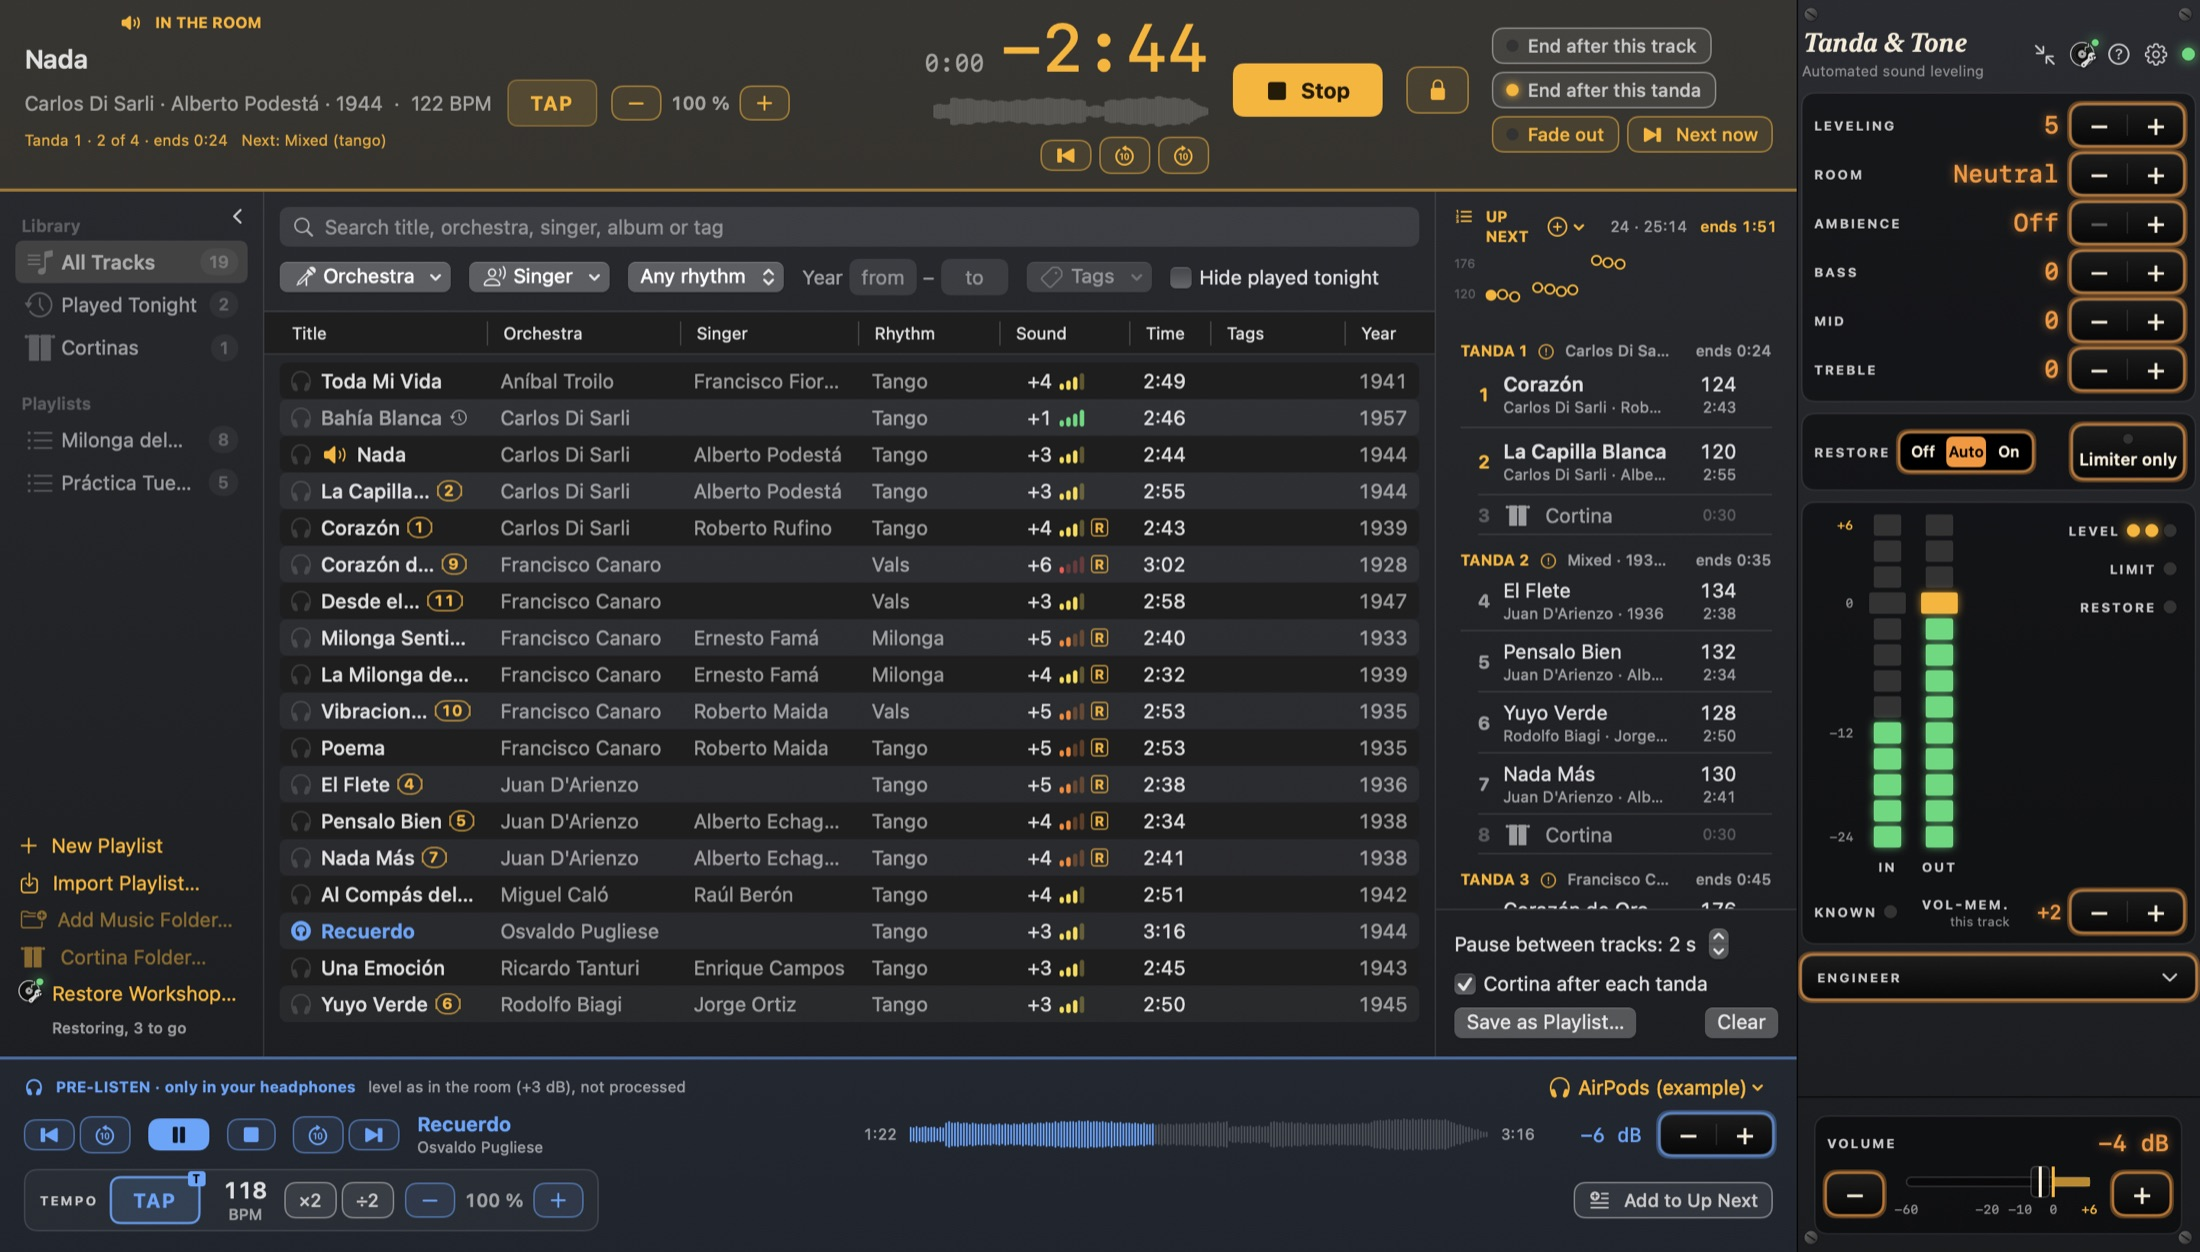
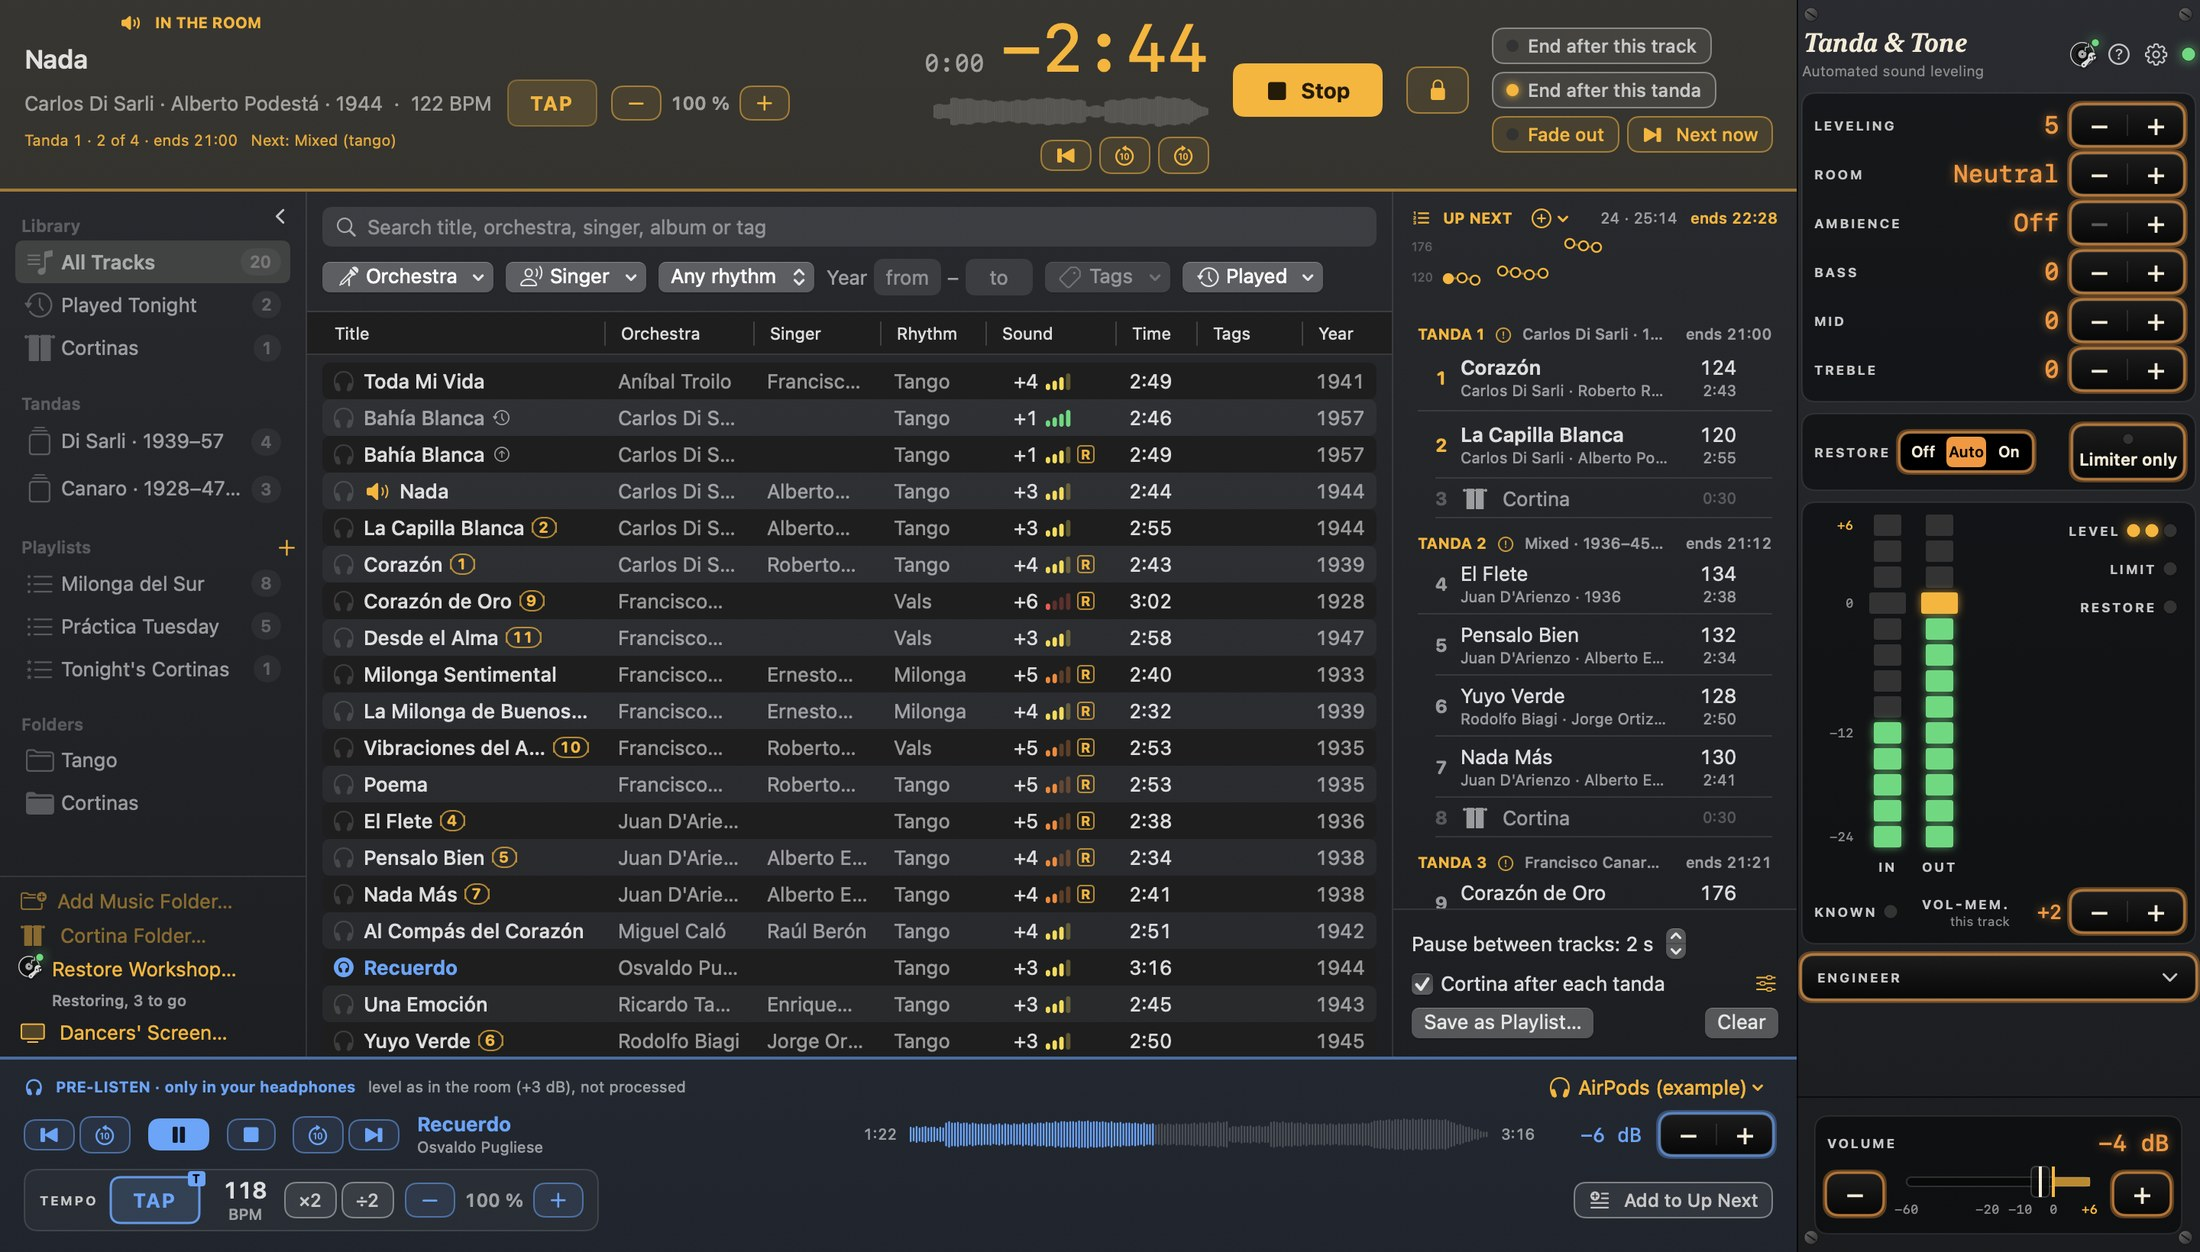
Tanda & Tone: the public pages (2026-11-11)

diff --git a/support.html b/support.html
@@ -466,6 +466,13 @@
     <div class="card"><h3>Ending after a tanda</h3><p><strong>End after this tanda</strong> lets the tanda play to its
       last track, then the room goes quiet before the cortina, for an announcement or a break. <strong>End after this
       track</strong> does the same after the track in the room.</p></div>
+    <div class="card"><h3>Saved tandas</h3><p>A tanda you want again: select its tracks in the library, right-click
+      and choose <strong>Save as Tanda</strong>, or right-click a track of it in Up Next and choose <strong>Save This
+      Tanda</strong>. It is kept under Tandas in the sidebar. Right-click it there and choose <strong>Add as
+      Tanda</strong> to put it in Up Next, with its cortina.</p></div>
+    <div class="card"><h3>Tonight's cortinas</h3><p>The playlist <strong>Tonight's Cortinas</strong> chooses the
+      cortinas for one evening: drag tracks into it and only those play as cortinas, in its order. Leave it empty
+      and every cortina in your folder takes its turn.</p></div>
   </div>
 </section>
 
@@ -488,6 +495,17 @@
       will give it.</p></div>
     <div class="card"><h3>The lock</h3><p>The padlock beside Stop (⌘L) guards against a slip of the hand. Locked, Stop
       and Next now need a short hold. Fade out, the headphones and the library stay one click.</p></div>
+    <div class="card"><h3>A screen for the dancers</h3><p><strong>Dancers' Screen…</strong> under the library (⇧⌘D)
+      opens a black window for a projector or a TV: orchestra, title, singer and year, the rhythm and where the tanda
+      is. Drag it to that display and press the green button for full screen. Point at it and click the gear in its
+      corner for your name, the milonga's, what it says about the next tanda, and its look.</p></div>
+    <div class="card"><h3>The same recording twice</h3><p>A small <strong>↑</strong> after a title means another file
+      of the same recording in your library sounds better. Point at it to see which album, or right-click and choose
+      <strong>Show Other Transfers</strong> to hear them side by side. Nothing is hidden: the choice is yours.</p></div>
+    <div class="card"><h3>What you have not played lately</h3><p>The <strong>Played</strong> menu above the library
+      hides what was played tonight, or shows only what you have not played for some weeks. Right-click the table's
+      header and choose <strong>Last Played</strong> for a column that says when. Pre-listening does not count as
+      played.</p></div>
   </div>
 
   <h3 style="margin:44px 0 14px">A checklist for the evening</h3>
@@ -582,6 +600,17 @@
         its own mixer channel.</p></div>
     </details>
     <details>
+      <summary>I corrected the tags in my files. Are my playlists still right?</summary>
+      <div><p>Yes. Fix the tags in any tagger, and let it rename the files if you like. The track stays the same
+        track, with its playlists, saved tandas, tags and when it was last played, and the new tags are read the next
+        time Tanda &amp; Tone opens. A file converted to another format counts as a new track.</p></div>
+    </details>
+    <details>
+      <summary>The library's left column is gone</summary>
+      <div><p>In a narrow window it folds away by itself so that every column of the library shows. Make the window
+        wider, or click the small arrow at the library's left edge (⌃⌘S).</p></div>
+    </details>
+    <details>
       <summary>The room stopped by itself</summary>
       <div><p>It reached an empty slot of a template set, or End after this tanda was on. Fill the slot or press Play
         to go on.</p></div>
@@ -639,6 +668,8 @@
       <tr><td>[ / ]</td><td>Pre-listen the previous / next track</td></tr>
       <tr><td>⌘↑ / ⌘↓</td><td>Volume up / down</td></tr>
       <tr><td>⌘F</td><td>Search the library</td></tr>
+      <tr><td>⇧⌘D</td><td>The dancers' screen</td></tr>
+      <tr><td>⌃⌘S</td><td>Fold the library's left column away, or bring it back</td></tr>
       <tr><td>⇧⌘R</td><td>Restore Workshop</td></tr>
       <tr><td>⌘,</td><td>Setup</td></tr>
       <tr><td>⌘?</td><td>The manual</td></tr>

diff --git a/index.html b/index.html
@@ -477,7 +477,10 @@
           <h3>It has heard every track before the floor does.</h3>
           <p>Point it at your music folders. It reads orchestra, singer and rhythm from your tags, FLAC included,
             and listens through every track once, so each one's level is known before you play it.</p>
-          <p>Search and filter by orchestra, singer, rhythm and year, and a tanda is a few clicks.</p>
+          <p>Search and filter by orchestra, singer, rhythm and year, or show only what you have not played for
+            a month, and a tanda is a few clicks.</p>
+          <p>Where you own the same recording from several albums, it marks the transfer that sounds best. Which
+            one plays is still your choice.</p>
         </div>
         <figure class="pic scroll">
           <div class="frame"><img src="images/tango-library.jpg" width="980" height="353" loading="lazy" alt="The library with columns for title, orchestra, singer, rhythm, sound, time and year, and filters for orchestra, singer, rhythm and year above it"></div>
@@ -494,6 +497,7 @@
           <h3>T T V T T M, laid out with its cortinas.</h3>
           <p>Select four tracks and add them as a tanda, and a cortina follows it. Or lay out the whole night from
             a template and drop the tracks into its slots.</p>
+          <p>A tanda you want again is saved with one click and waits in the sidebar for any evening.</p>
           <p>Up Next shows every tanda with its orchestra and the time it ends. A small mark hints when a tanda
             mixes orchestras, singers or rhythms. It is a hint, never a block.</p>
           <div class="template" role="img" aria-label="A set template: tango, tango, vals, tango, tango, milonga, with a cortina after each tanda">
@@ -516,6 +520,22 @@
             After that, a move on the fader is a choice, not a repair.</p>
           <p>Then lock the player. Locked, Stop and Next need a short hold, so a stray click cuts nothing short.</p>
         </div>
+      </div>
+    </li>
+
+    <li class="stop">
+      <div class="when"><span class="time">20:30</span><span class="phase">The first tanda</span></div>
+      <div class="what">
+        <div class="text">
+          <h3>The floor can read what is playing.</h3>
+          <p>Put a second window on the projector or a TV. It shows the orchestra, the title, the singer and the
+            year in type that reads across the room, and where the tanda is.</p>
+          <p>Your name and the milonga's stand at the top. What it says about the next tanda is yours to decide:
+            its rhythm, its orchestra too, or nothing at all.</p>
+        </div>
+        <figure class="pic">
+          <img src="images/tango-dancers.jpg" width="480" height="270" loading="lazy" alt="The screen for the dancers, white type on black: Carlos Di Sarli, Corazón, Roberto Rufino, 1939, tango, the second of four, and next a vals by Francisco Canaro; the milonga's name and the DJ's at the top">
+        </figure>
       </div>
     </li>
 
@@ -588,7 +608,8 @@
     <div><h3>Never changed</h3><p>Nothing is written to your files. Corrections you make stay in the app, and
       restored copies are new files.</p></div>
     <div><h3>Not locked in</h3><p>Playlists go in and out in the common playlist format, so your work travels with
-      you.</p></div>
+      you. Correct a file's tags in your own tagger whenever you like: the track keeps its playlists, its tandas
+      and its history.</p></div>
     <div><h3>Private</h3><p>It works offline, in a hall with no signal. Nothing is recorded or uploaded. No
       account, no analytics, no tracking.</p></div>
   </div>
